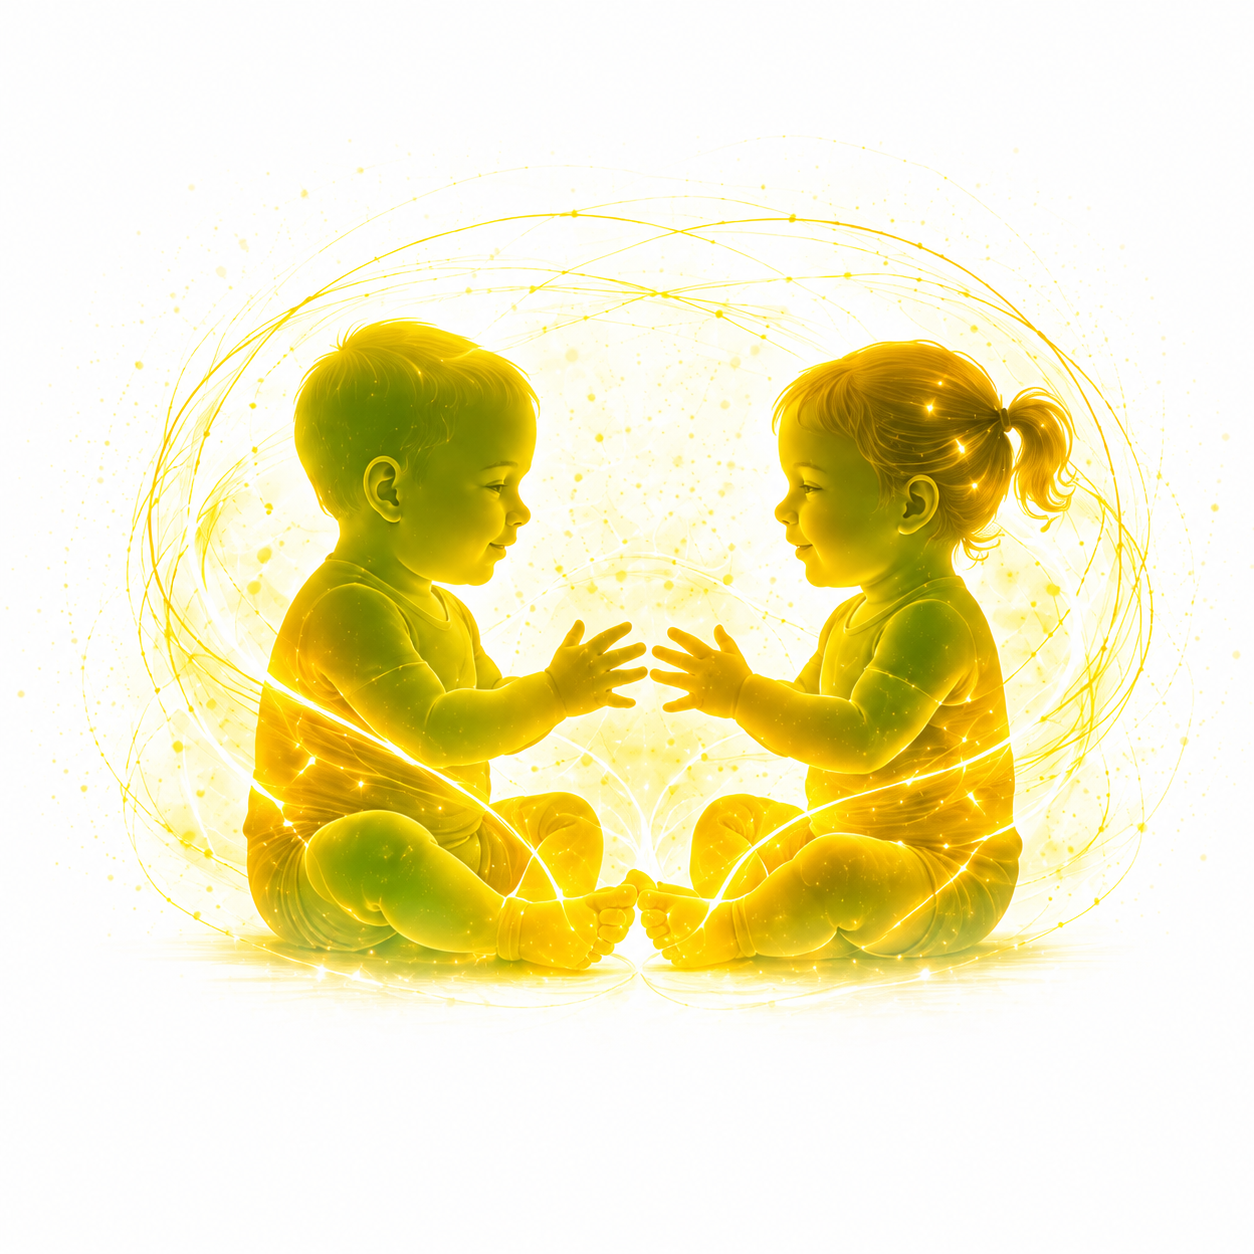
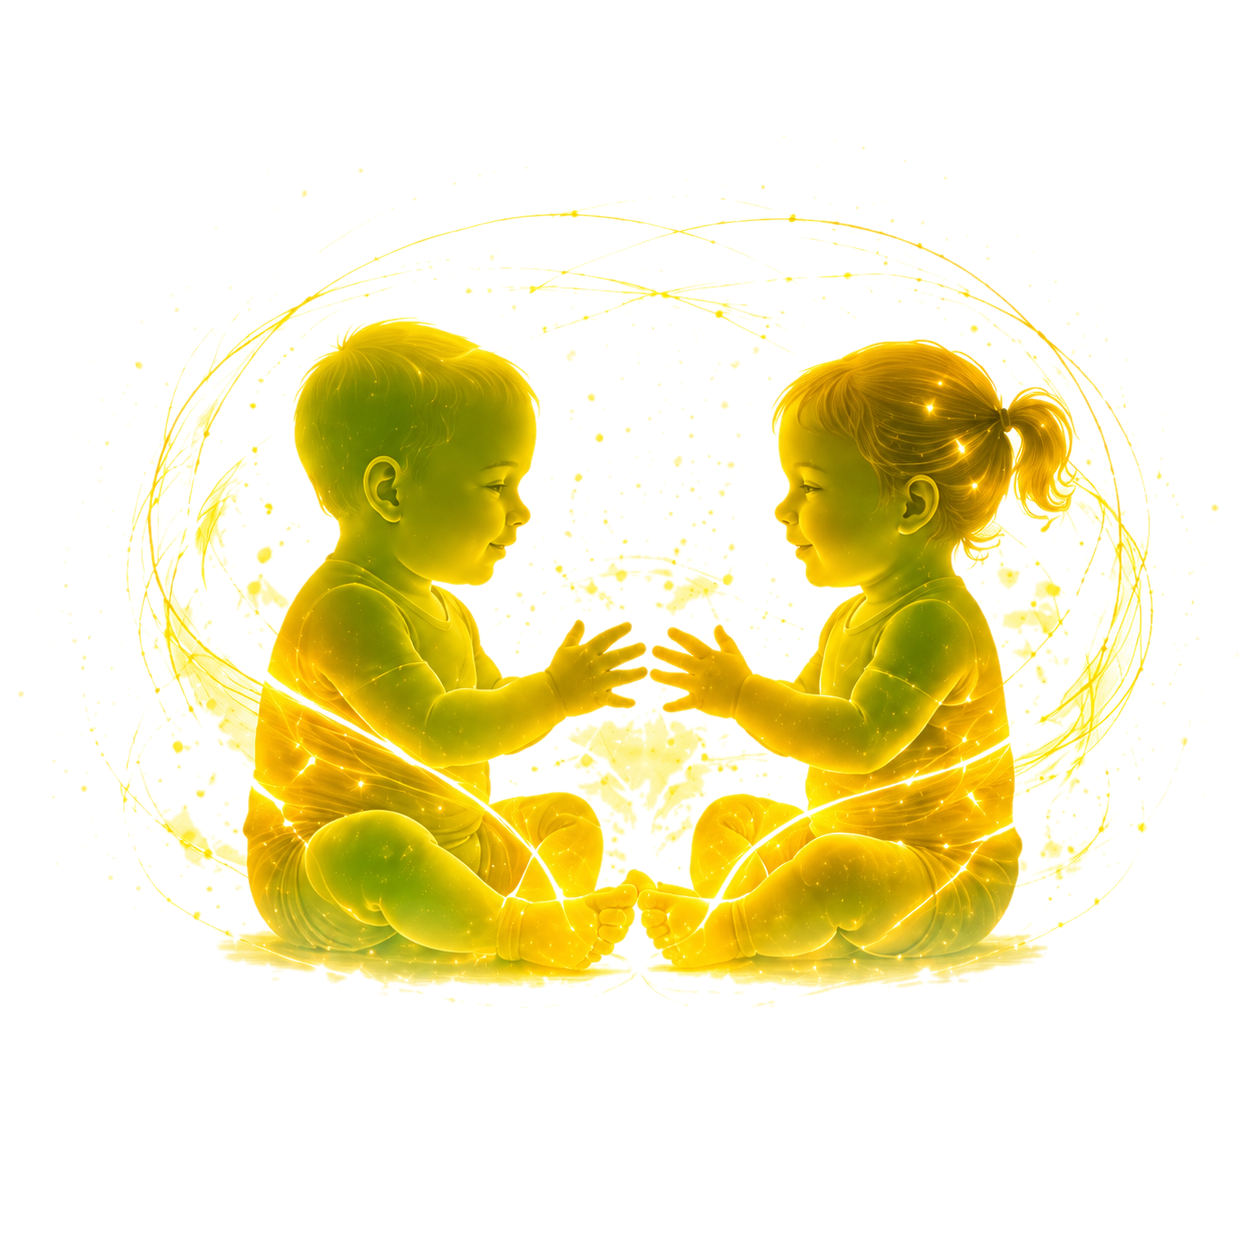
QA follow-up: transparent system images, homepage tagline wrap, Pregnancy Hydration copy
Removes the baked-in white background from the five Health/Life system images
(Recovery, Longevity, Pregnancy, Birth, Baby) via an adaptive near-white
flood-fill from the image border, replacing each file in place — same paths,
same filenames, now RGBA. This matches every other hero image in the catalog
and removes the visible white-box artifact on tinted/gradient card
backgrounds. Also switches the homepage's compact system card tagline from
single-line truncate to a 2-line clamp so the longer Pregnancy/Birth taglines
no longer cut off mid-sentence, and fills in the missing intro copy on the
Pregnancy page's Hydration card so it matches its sibling cards.

diff --git a/components/home/ecosystem.tsx b/components/home/ecosystem.tsx
@@ -76,7 +76,7 @@ function SystemCard({ system, size }: { system: SystemDef; size: "large" | "smal
               {system.family === "foundation" ? "Foundation" : system.family === "health" ? "Health" : "Life"}
             </span>
             <h3 className={`font-serif font-semibold leading-tight text-foreground transition-colors group-hover:text-[color:var(--accent)] ${large ? "text-2xl" : "text-lg"}`}>{system.label}</h3>
-            <p className="truncate text-xs text-muted-foreground">{system.tagline}</p>
+            <p className="line-clamp-2 text-xs leading-snug text-muted-foreground">{system.tagline}</p>
           </div>
         </div>
 

diff --git a/lib/pregnancy/questions.ts b/lib/pregnancy/questions.ts
@@ -65,6 +65,7 @@ export const PREGNANCY_SECTIONS: PQSection[] = [
   {
     id: "hydration",
     title: "Hydration",
+    intro: "Fluid intake, food rhythm and gentle hydration habits that support day-to-day comfort during pregnancy.",
     questions: [
       { id: "hydration", label: "Fluids (mostly water) through the day", options: LOWHIGH },
     ],
